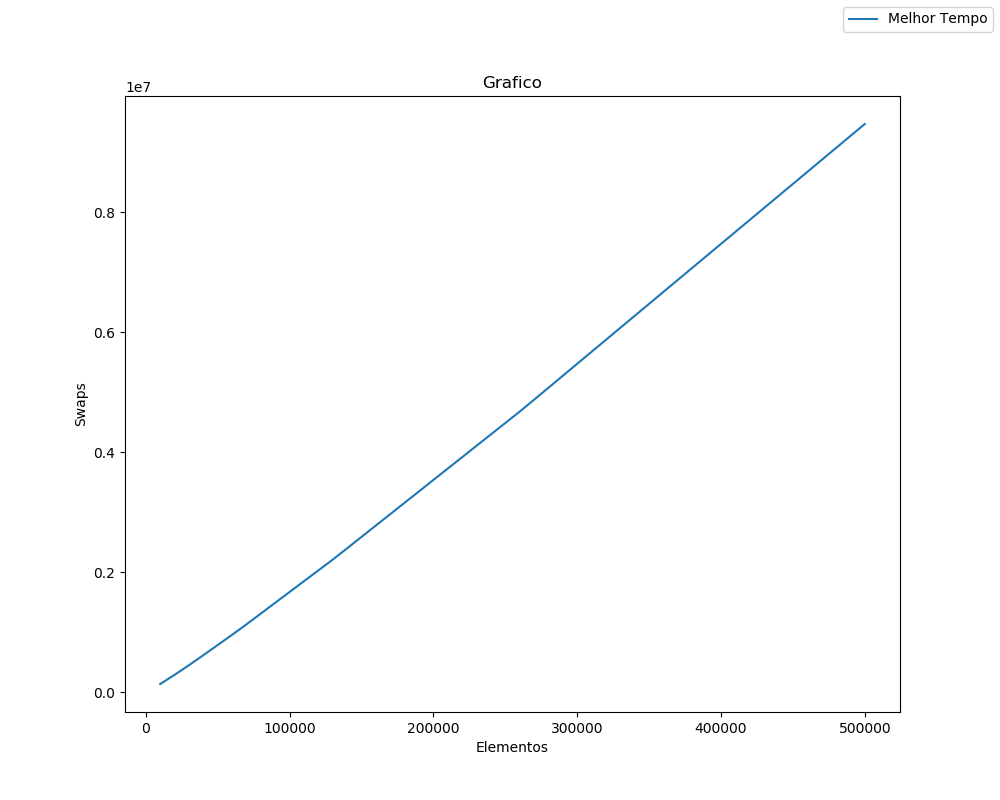
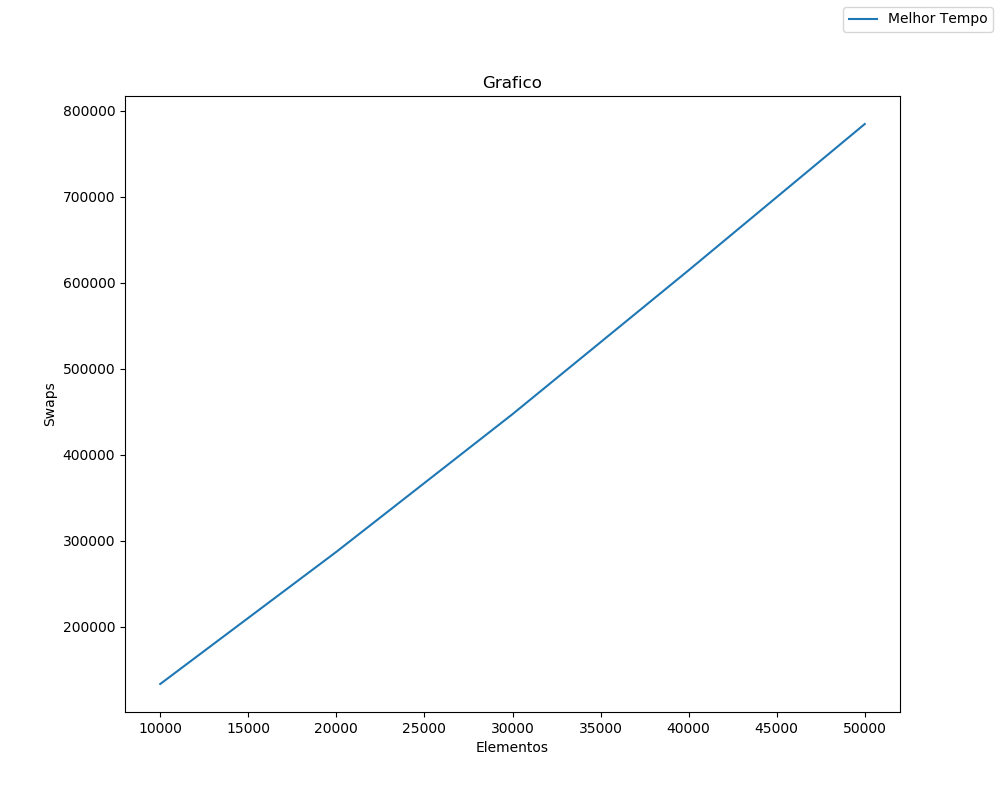
Atualizado testMerge

diff --git a/SortingAlgorithms(Python)/testMerge.py b/SortingAlgorithms(Python)/testMerge.py
@@ -10,14 +10,11 @@ from mergeSort import *
 
 setup = "from helperFunctions import printIfSorted\n" \
         "from mergeSort import mergeSort"
-vect = geraListaReversa(500000)
+vect = geraListaReversa(50000)
 swaps = []
 tempo = []
 passo = []
-#vect = mergeSort(vect)
-#printIfSorted(vect)
 for x in range(10000, len(vect)+1, 10000):
-    #tempo.append(timeit.timeit("aux=[{0}]\naux=mergeSort.mergeSort(aux)\nprintIfSorted(aux)".format(vect[0:x]), setup, number=1))
     tempo.append(timeit.timeit("mergeSort({})".format(vect[0:x]), setup, number=1))
     passo.append(x)
     swaps.append(variables.swaps)
